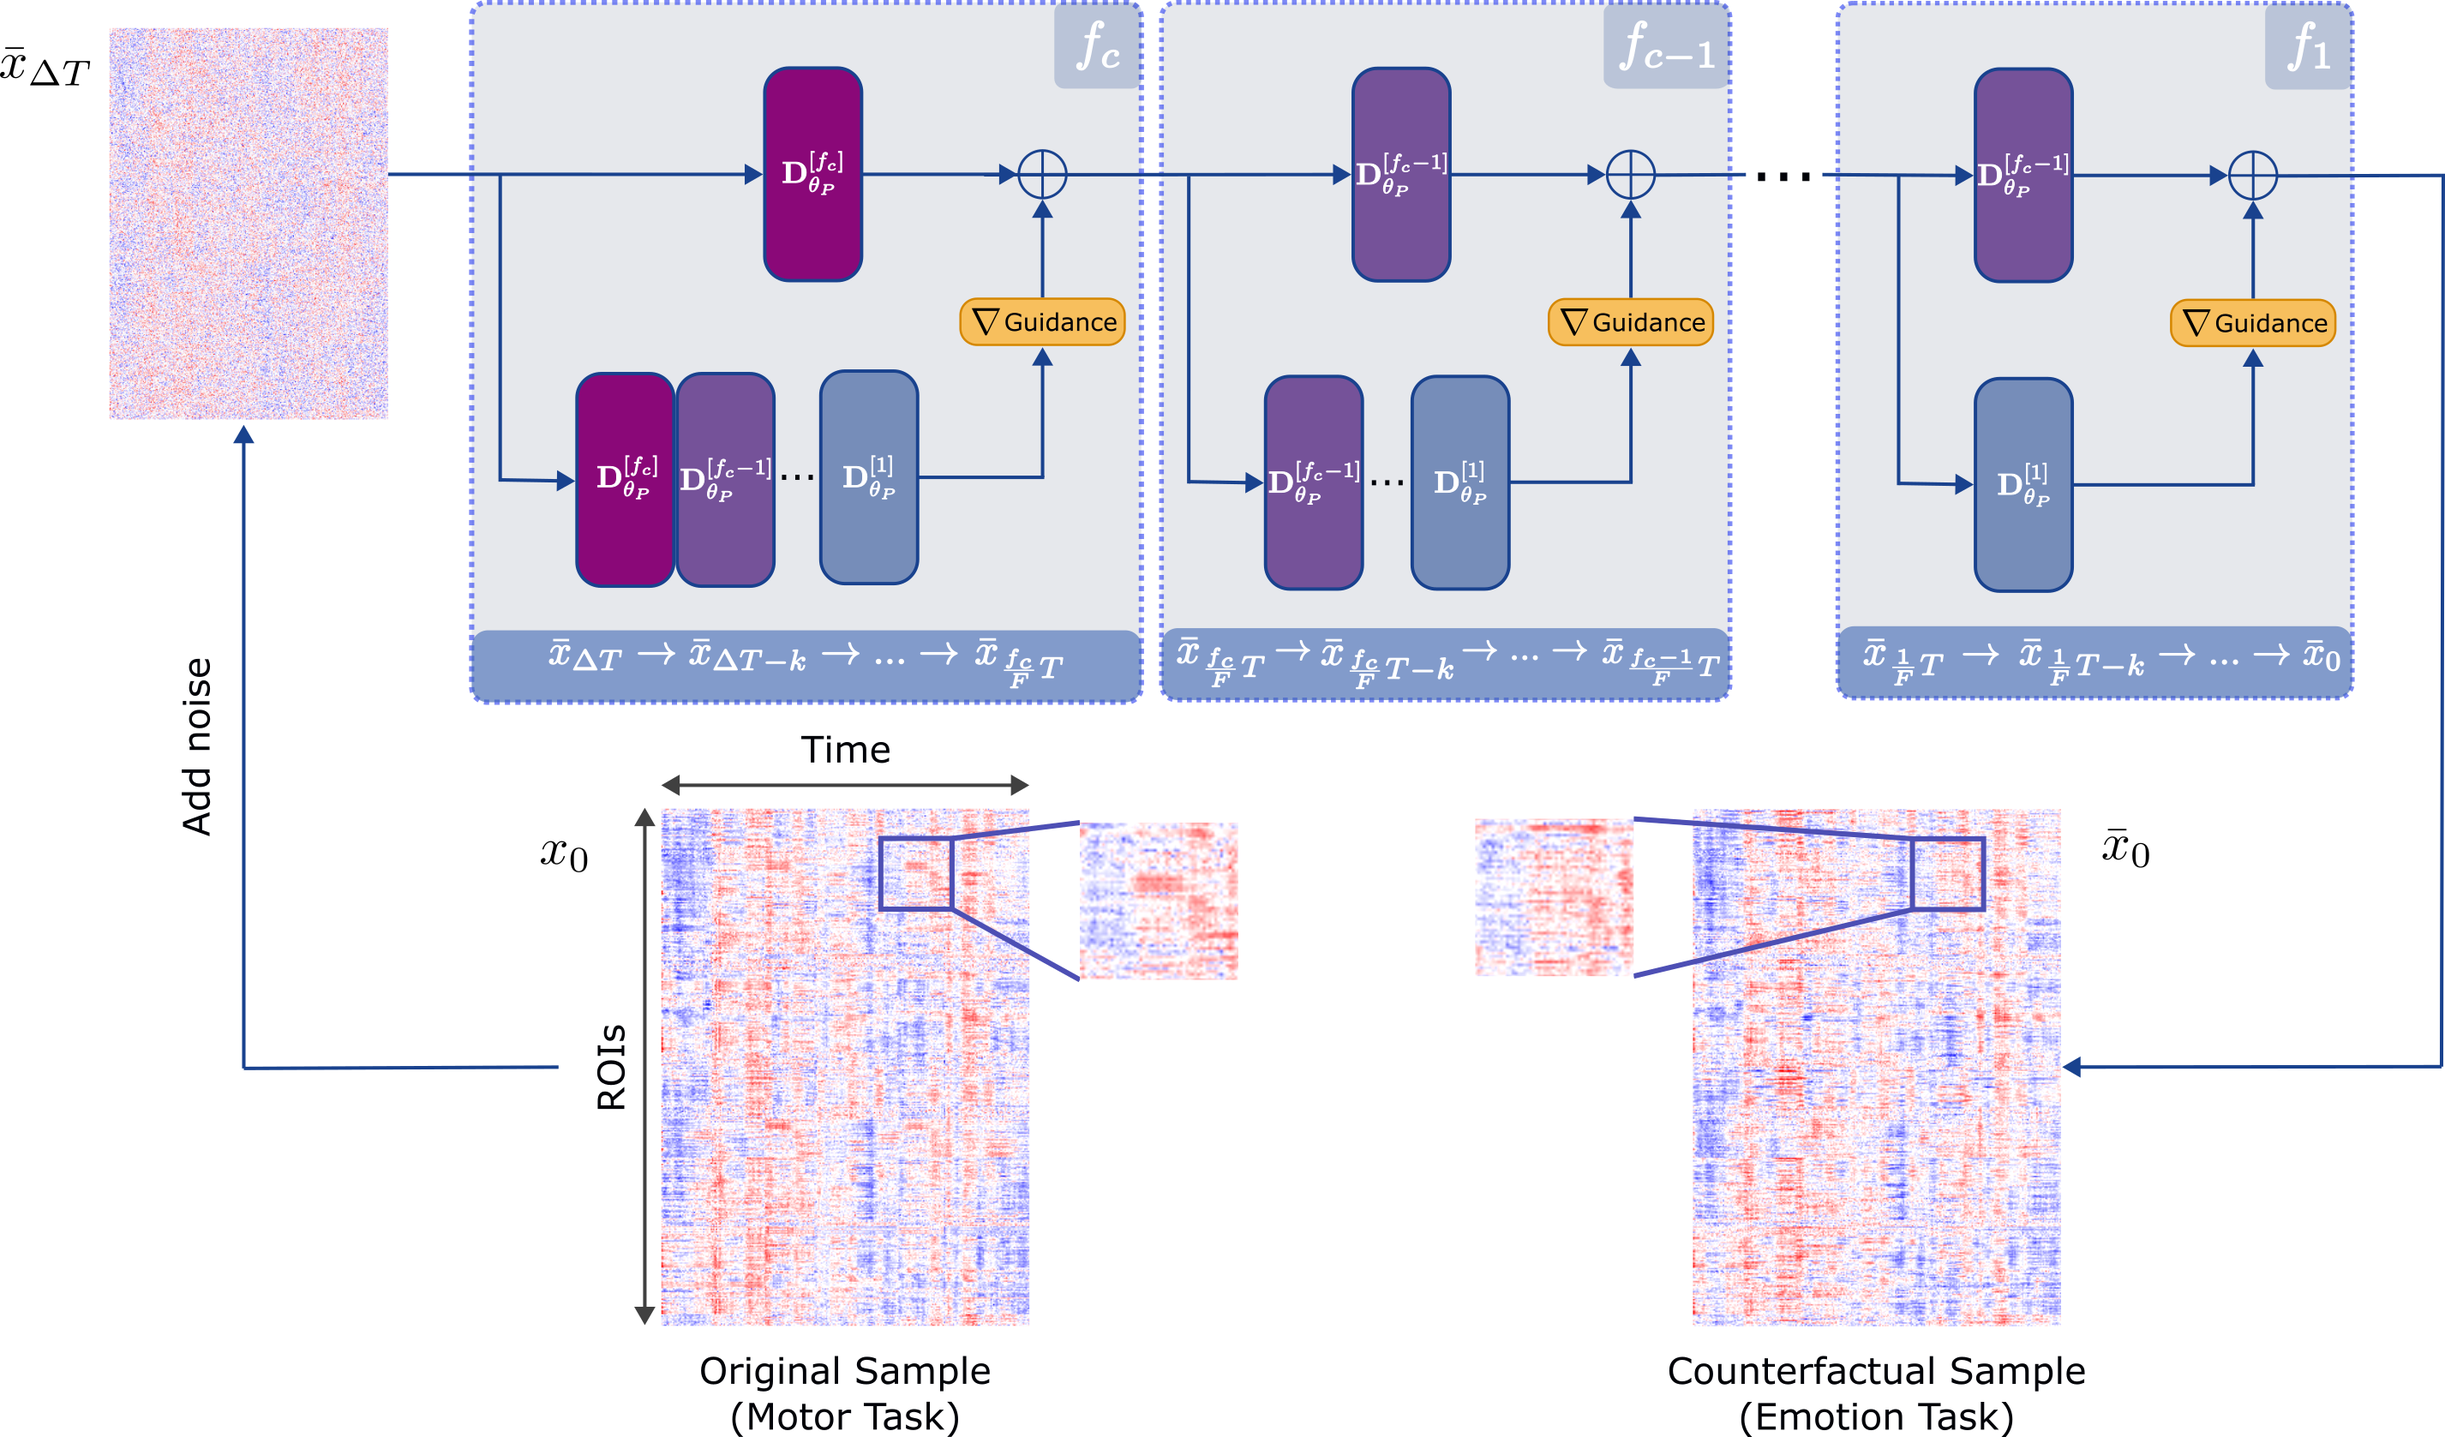
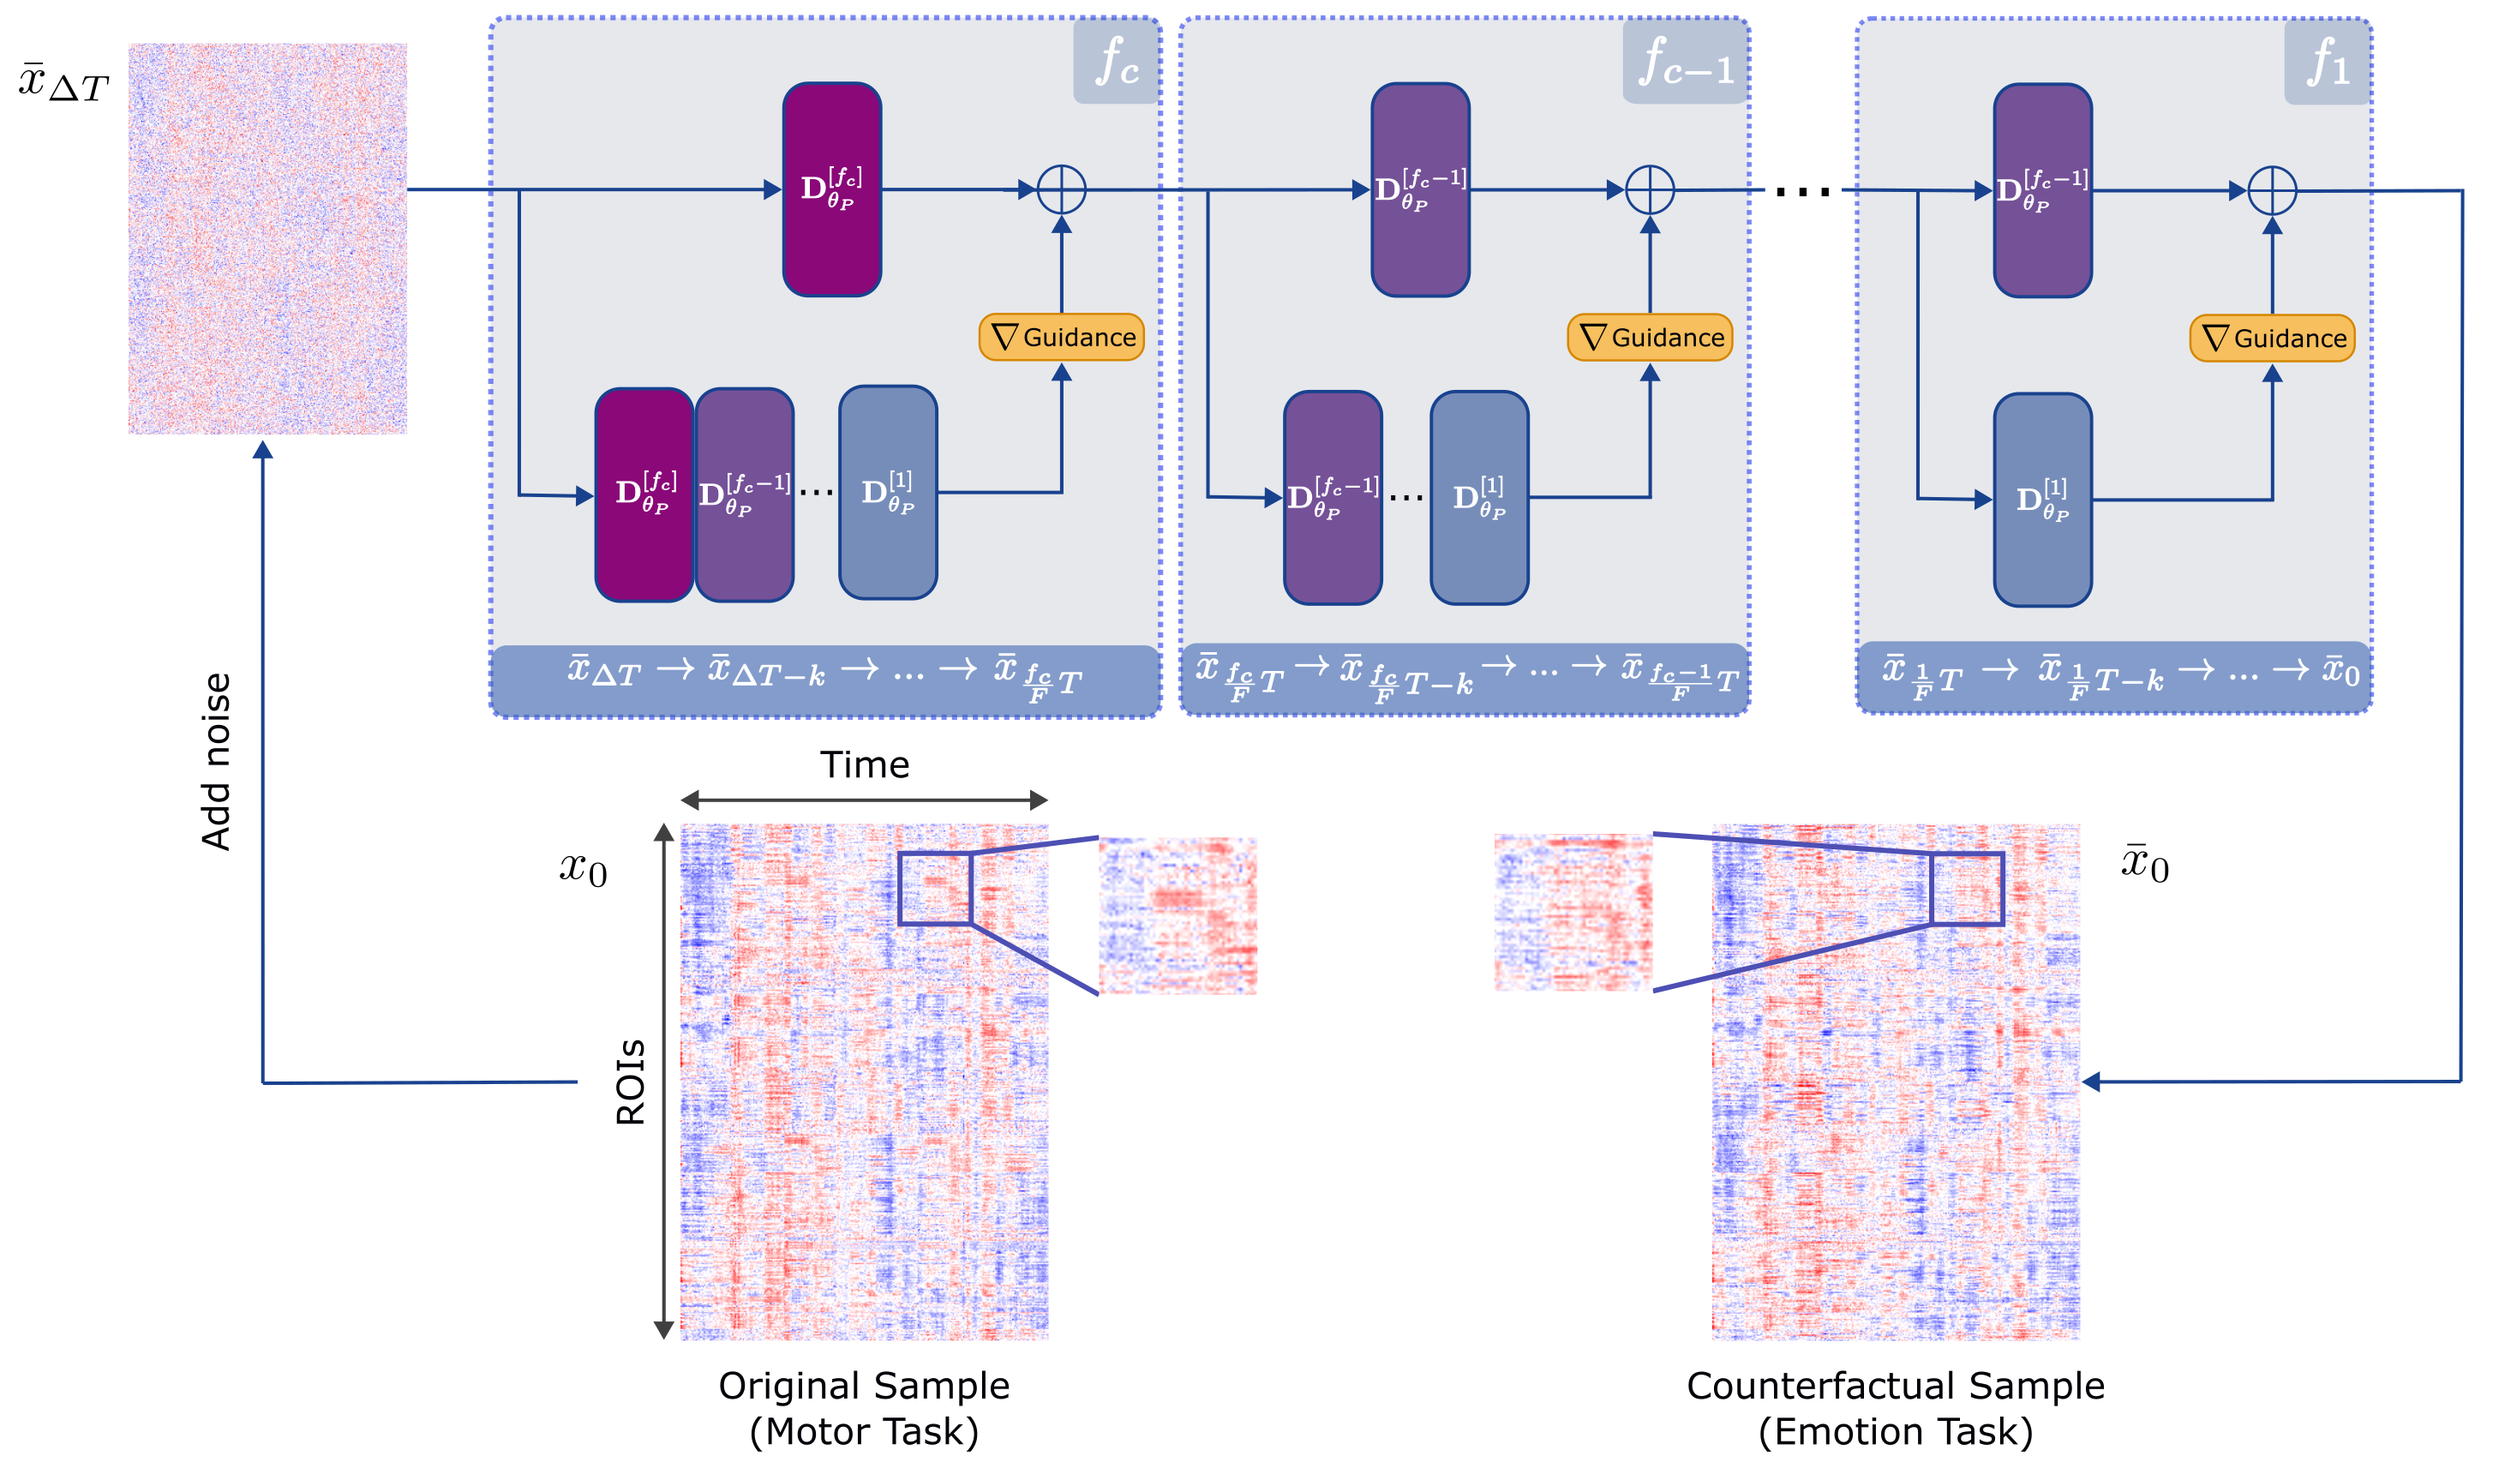
added white background to the figures

diff --git a/README.md b/README.md
@@ -12,7 +12,7 @@ Official PyTorch implementation of DreaMR described in the [paper](https://arxiv
 
 ### Training of the Diffusion Prior
 
-<img src="./Assets/second_figure.png">
+<img src="./Assets/second_figure.png" width="800">
 
 ## Running
 
@@ -41,6 +41,6 @@ Also based on the dataset your using, set the correct variables (nOfClasses, dyn
 
 ### Biomarker Identification
 
-<img src="./Assets/hcprest_biomarker.png">
+<img src="./Assets/hcprest_biomarker.png" width="800">
 
-## Coming Soon...# DreaMR
+## Coming Soon...
